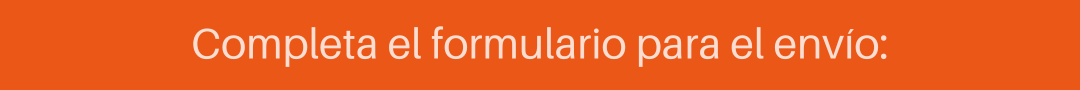
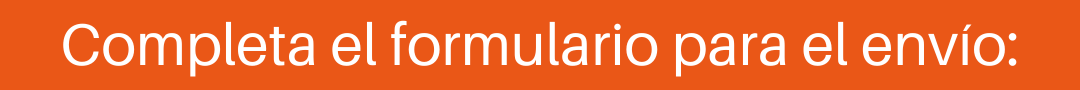
cambio de img

Changed region(s): [[0.0611, 0.2222, 0.9472, 0.8444], [0.8861, 0.2667, 0.9167, 0.3333]]

diff --git a/src/app/core/cart-form/cart-form.component.html b/src/app/core/cart-form/cart-form.component.html
@@ -3,7 +3,7 @@
 
     <div class="row mt-1">
         <div class="col-12">
-            <!-- <img class="img-fluid" src="../assets/core-img/pedido.gif" alt=""> -->
+            <img class="img-fluid" src="../assets/core-img/pedido.png" alt="">
         </div>
     </div>
 
@@ -72,7 +72,7 @@
 
             <div class="row text-center mt-1 mb-3">
                 <div class="col-12">
-                    <!-- <img class="img-fluid" src="assets/core-img/formulario.png" alt=""> -->
+                    <img class="img-fluid" src="assets/core-img/formulario.png" alt="">
                 </div>
             </div>
 

diff --git a/src/environments/environment.ts b/src/environments/environment.ts
@@ -4,7 +4,7 @@
 
 export const environment = {
   production: false,
-  base_url: 'https://api.soyclickstore.com/api/v1',
+  base_url: 'https://elb.soyclickstore.com/api/v1',
   wsUrl: 'https://api.soyclickstore.com',
   cloudFront: 'https://d3cj1y2eynyat2.cloudfront.net',
   clickstoreId: '65cbb4aef603ea05486973f6',
